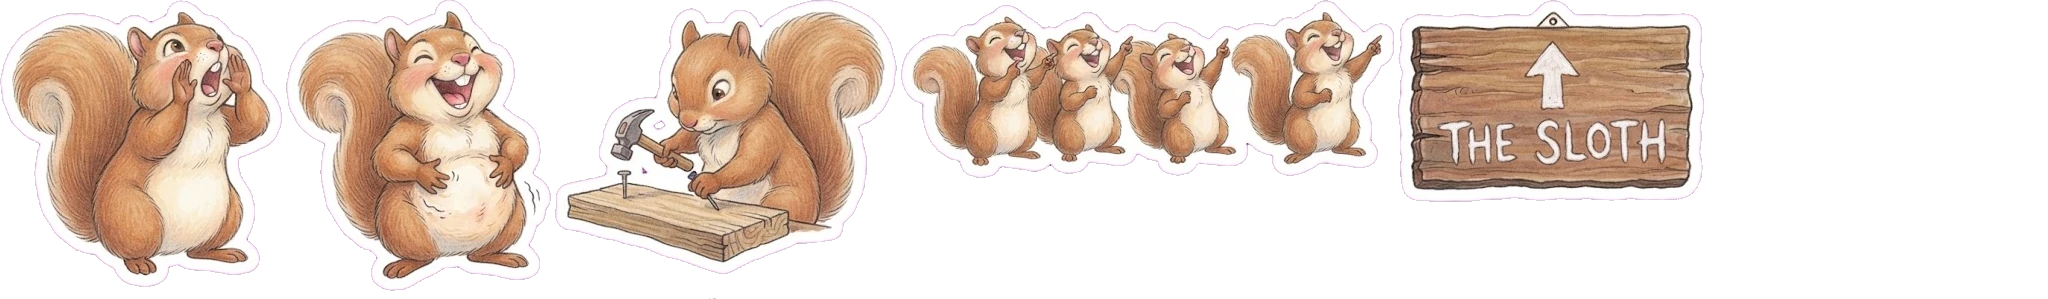
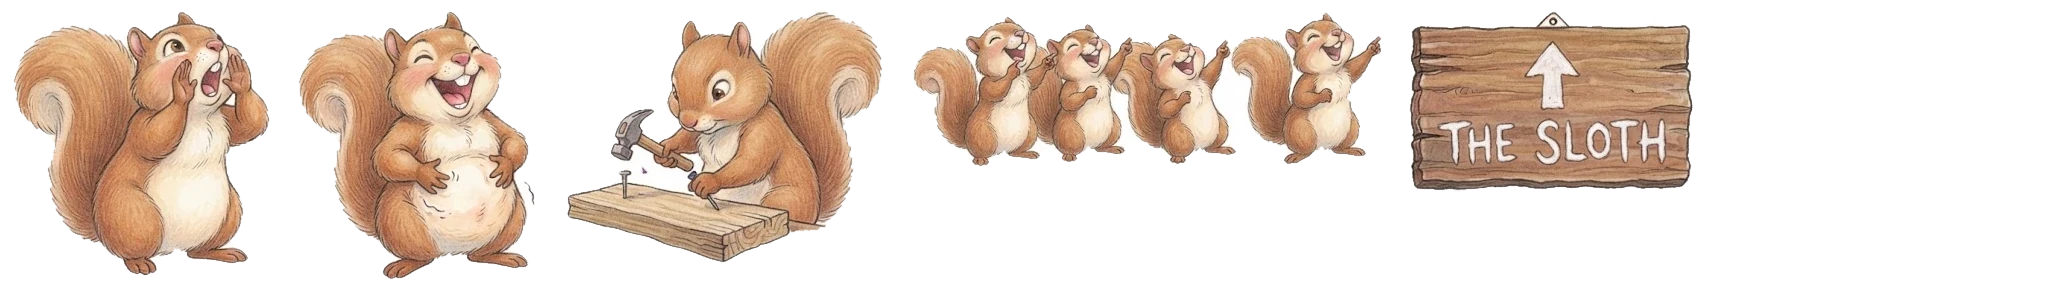
HF list row 9: story plates #19 (the raft) and #20 (Dot at the gorge) painted; #18 squirrels and #21 floury Dot cleaned (rims, flour puffs); not wired yet
Claude-Session: https://claude.ai/code/session_01FhBbYMvPygG5P2B8VV2Fzu

diff --git a/tools/art/hfstory/platecut.py b/tools/art/hfstory/platecut.py
@@ -1,0 +1,67 @@
+"""Finish the story plates and clean the two Gemini story sheets (HF shopping list row 9, 2026-10-30):
+
+  src/assets/story/plates/raft.webp     #19 the village building the raft (World 2, halfway): hfstory1 plate-raft-s55-23, to 2560 x 2720
+  src/assets/story/plates/gorge.webp    #20 Dot holding on to Pokey's claw over the gorge (World 4, Act II): hfstory2's pick, the same
+  src/assets/w6to10/gemini/story21-dot-flour.webp   #21: the loose flour puffs (they took the key's pink) to flour white
+  src/assets/w6to10/gemini/story18-squirrels.webp   #18: the white sticker rim round each piece peeled off
+  reference/prop-sheets/qa-notes/hf-story/review-*.jpg
+
+    python3 -I tools/art/hfstory/platecut.py <takes dir> <game checkout> [gorge pick]
+"""
+import sys
+from pathlib import Path
+import numpy as np
+from PIL import Image, ImageFilter
+
+T, G = Path(sys.argv[1]), Path(sys.argv[2])
+GORGE = sys.argv[3] if len(sys.argv) > 3 else None
+QA = G / 'reference/prop-sheets/qa-notes/hf-story'
+QA.mkdir(parents=True, exist_ok=True)
+PL = G / 'src/assets/story/plates'
+for name, pick in (('raft', 'plate-raft-s55-23'), ('gorge', GORGE)):
+    if not pick:
+        continue
+    im = Image.open(T / f'{pick}.webp').convert('RGB').resize((2560, 2720), Image.LANCZOS)
+    im.save(PL / f'{name}.webp', 'WEBP', quality=84, method=6)
+    im.resize((640, 680), Image.LANCZOS).save(QA / f'review-{name}.jpg', quality=88)
+    print(name, (PL / f'{name}.webp').stat().st_size)
+
+GM = G / 'src/assets/w6to10/gemini'
+# #21 Dot in flour: the loose puffs (islands apart from her body) took the key's pink: every small island to a warm flour white
+from scipy import ndimage
+dot = Image.open(GM / 'story21-dot-flour.webp').convert('RGBA')
+a = np.asarray(dot).astype(np.float32)
+lab, n = ndimage.label(a[..., 3] > 20)
+sizes = ndimage.sum(np.ones(lab.shape), lab, range(1, n + 1))
+small = np.isin(lab, 1 + np.flatnonzero(sizes < sizes.max() * 0.04))
+L = a[..., :3].mean(axis=2)
+for c, k in ((0, 1.0), (1, 0.98), (2, 0.95)):
+    a[..., c] = np.where(small, np.clip(L * 0.35 + 165 * k, 0, 255), a[..., c])
+Image.fromarray(a.astype(np.uint8), 'RGBA').save(GM / 'story21-dot-flour.webp', 'WEBP', quality=90, method=6)
+# #18 the squirrels: the white sticker rim peeled off, a pixel at a time from the outside, until the dark outline is reached
+sq = np.asarray(Image.open(GM / 'story18-squirrels.webp').convert('RGBA')).copy()
+rgb = sq[..., :3].astype(int)
+white = (rgb.min(axis=2) > 150) & (rgb.max(axis=2) - rgb.min(axis=2) < 46)  # the rim: pale and grey-white, never his cream fur
+for _ in range(18):
+    clear = sq[..., 3] < 40
+    edge = ndimage.binary_dilation(clear) & ~clear & white
+    if not edge.any():
+        break
+    sq[..., 3][edge] = 0
+# specks of the rim left standing alone go too, then a soft one-pixel edge on what is left
+solid = ndimage.binary_opening(sq[..., 3] > 40, iterations=2)
+lab, n = ndimage.label(solid)
+sizes = ndimage.sum(np.ones(lab.shape), lab, range(1, n + 1))
+keep = np.isin(lab, 1 + np.flatnonzero(sizes > 400))
+sq[..., 3] = np.where(keep, sq[..., 3], 0)
+al = Image.fromarray(sq[..., 3]).filter(ImageFilter.GaussianBlur(0.6))
+sqi = Image.fromarray(sq, 'RGBA')
+sqi.putalpha(al)
+sqi.save(GM / 'story18-squirrels.webp', 'WEBP', quality=90, method=6)
+for n in ('story21-dot-flour', 'story18-squirrels'):
+    im = Image.open(GM / f'{n}.webp').convert('RGBA')
+    S = Image.new('RGBA', (im.width, im.height * 2), (24, 20, 28, 255))
+    S.paste((128, 128, 128, 255), (0, im.height, im.width, im.height * 2))
+    S.alpha_composite(im, (0, 0)); S.alpha_composite(im, (0, im.height))
+    S.convert('RGB').resize((S.width // 2, S.height // 2), Image.LANCZOS).save(QA / f'review-{n}.jpg', quality=88)
+print('ok')
